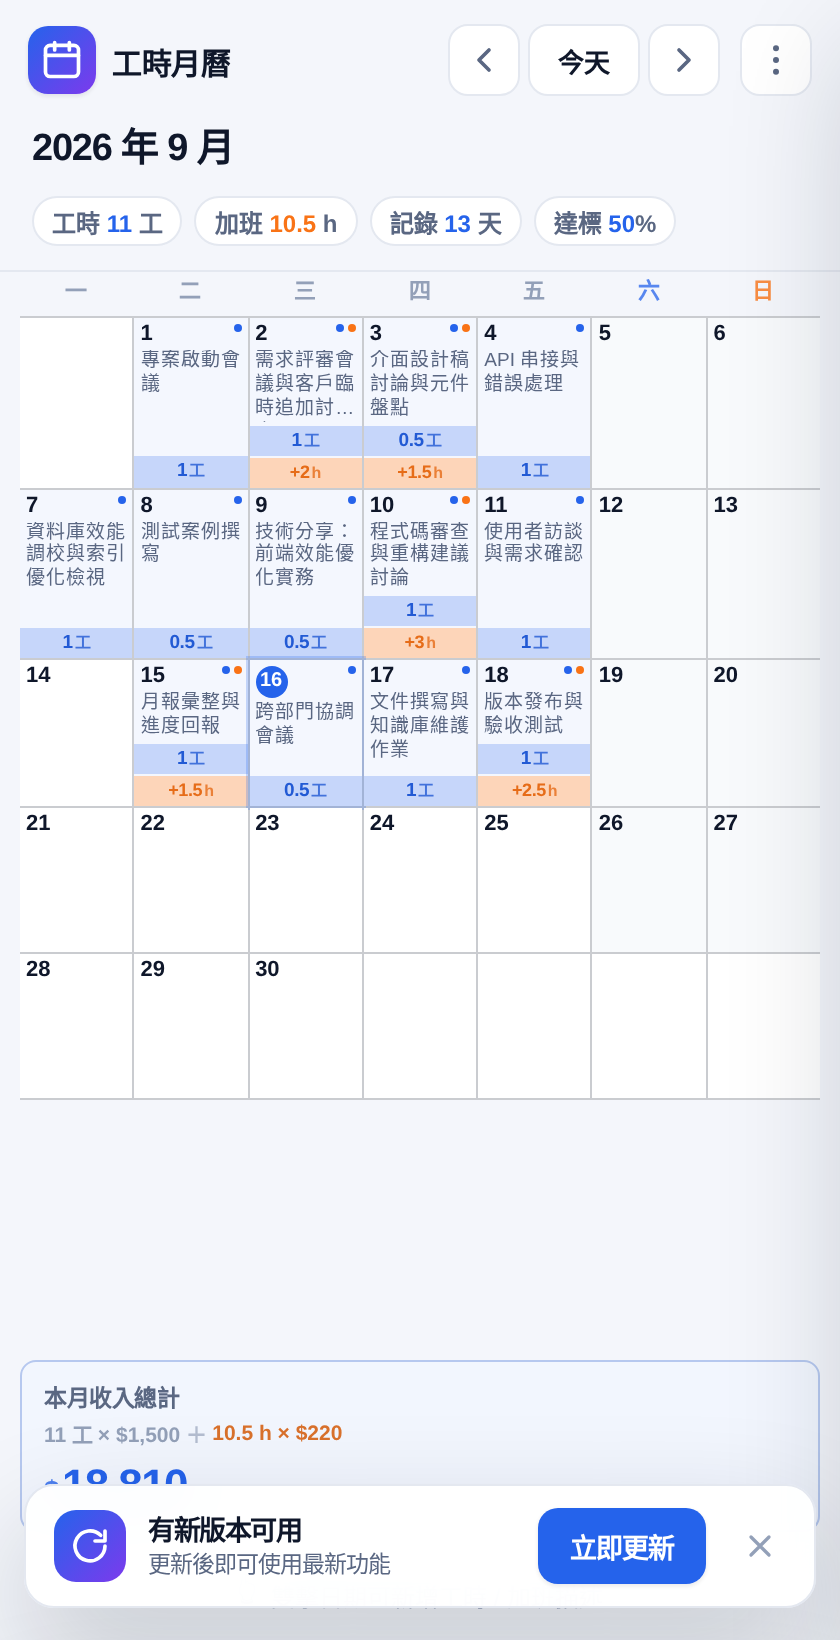
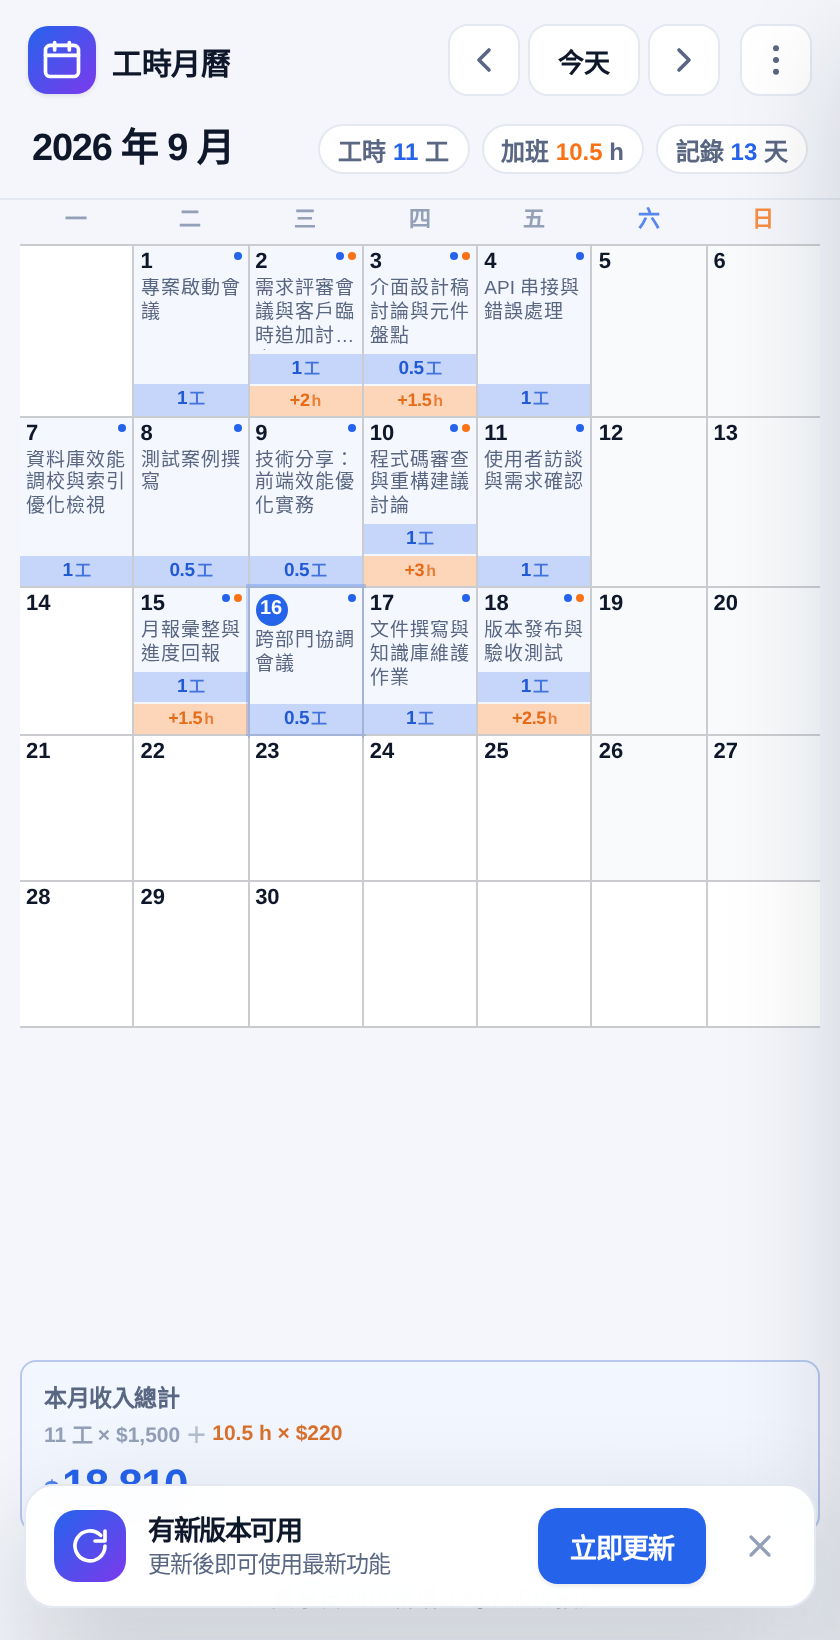
v1.8.1：移除「達標」統計參數
- 月度統計不再顯示達標率，只保留工時、加班、記錄天數
- 連帶移除頁首統計列的達標膠囊與相關的應出勤工數計算
- 更新「1 工 = 幾小時」的說明文字（不再提及達標率）
- 更新截圖與 README

diff --git a/worktime-calendar.standalone.html b/worktime-calendar.standalone.html
@@ -1357,7 +1357,7 @@ textarea::placeholder, input::placeholder { color: var(--text-3); }
       <input id="stdHours" type="number" inputmode="decimal" step="0.5" min="0.5" max="24" value="8">
       <button type="button" class="step-btn" data-target="stdHours" data-delta="0.5">+</button>
     </div>
-    <p class="drawer-help">用來換算「1 工」對應的實際小時數，也是達標率的計算基準</p>
+    <p class="drawer-help">用來換算「1 工」對應的實際小時數</p>
   </div>
 
   <div class="drawer-section">
@@ -1456,8 +1456,8 @@ textarea::placeholder, input::placeholder { color: var(--text-3); }
   'use strict';
 
   // 由 bump-version.sh 自動維護
-  const APP_VERSION = '1.8.0';
-  const APP_BUILD = '20260916-0043';
+  const APP_VERSION = '1.8.1';
+  const APP_BUILD = '20260916-0808';
 
   const STORE_KEY = 'worktime-calendar:v1';
   const SETTINGS_KEY = 'worktime-calendar:settings:v1';
@@ -1721,21 +1721,10 @@ textarea::placeholder, input::placeholder { color: var(--text-3); }
     const totalOt = list.reduce((s, e) => s + num(e.otHours), 0);          // 小時
     const days = list.filter((e) => num(e.workUnits) > 0 || num(e.otHours) > 0 || e.workDesc || e.otDesc).length;
 
-    // 本月應出勤工數：週一至週五天數 × 1 工
-    const dim = new Date(y, m + 1, 0).getDate();
-    let workdays = 0;
-    for (let d = 1; d <= dim; d++) {
-      const dow = new Date(y, m, d).getDay();
-      if (dow !== 0 && dow !== 6) workdays++;
-    }
-    const expected = workdays;   // 每個工作日 = 1 工
-    const rate = expected > 0 ? Math.round((totalWork / expected) * 100) : 0;
-
     el.monthStats.innerHTML = `
       <span class="stat-pill">工時 <b>${fmtUnits(totalWork)}</b> 工</span>
       <span class="stat-pill ot">加班 <b>${fmtH(totalOt)}</b> h</span>
       <span class="stat-pill">記錄 <b>${days}</b> 天</span>
-      <span class="stat-pill">達標 <b>${rate}</b>%</span>
     `;
   }
 

diff --git a/app.js b/app.js
@@ -7,8 +7,8 @@
   'use strict';
 
   // 由 bump-version.sh 自動維護
-  const APP_VERSION = '1.8.0';
-  const APP_BUILD = '20260916-0043';
+  const APP_VERSION = '1.8.1';
+  const APP_BUILD = '20260916-0808';
 
   const STORE_KEY = 'worktime-calendar:v1';
   const SETTINGS_KEY = 'worktime-calendar:settings:v1';
@@ -272,21 +272,10 @@
     const totalOt = list.reduce((s, e) => s + num(e.otHours), 0);          // 小時
     const days = list.filter((e) => num(e.workUnits) > 0 || num(e.otHours) > 0 || e.workDesc || e.otDesc).length;
 
-    // 本月應出勤工數：週一至週五天數 × 1 工
-    const dim = new Date(y, m + 1, 0).getDate();
-    let workdays = 0;
-    for (let d = 1; d <= dim; d++) {
-      const dow = new Date(y, m, d).getDay();
-      if (dow !== 0 && dow !== 6) workdays++;
-    }
-    const expected = workdays;   // 每個工作日 = 1 工
-    const rate = expected > 0 ? Math.round((totalWork / expected) * 100) : 0;
-
     el.monthStats.innerHTML = `
       <span class="stat-pill">工時 <b>${fmtUnits(totalWork)}</b> 工</span>
       <span class="stat-pill ot">加班 <b>${fmtH(totalOt)}</b> h</span>
       <span class="stat-pill">記錄 <b>${days}</b> 天</span>
-      <span class="stat-pill">達標 <b>${rate}</b>%</span>
     `;
   }
 

diff --git a/index.html b/index.html
@@ -156,7 +156,7 @@
       <input id="stdHours" type="number" inputmode="decimal" step="0.5" min="0.5" max="24" value="8">
       <button type="button" class="step-btn" data-target="stdHours" data-delta="0.5">+</button>
     </div>
-    <p class="drawer-help">用來換算「1 工」對應的實際小時數，也是達標率的計算基準</p>
+    <p class="drawer-help">用來換算「1 工」對應的實際小時數</p>
   </div>
 
   <div class="drawer-section">

diff --git a/sw.js b/sw.js
@@ -8,7 +8,7 @@
  *   4. controllerchange 觸發，頁面重新載入即為新版
  * ========================================================= */
 
-const CACHE = 'worktime-calendar-v1.8.0';
+const CACHE = 'worktime-calendar-v1.8.1';
 const PRECACHE = [
   './',
   './index.html',

diff --git a/README.md b/README.md
@@ -23,7 +23,7 @@
 | **工時與加班分行** | 月曆上工數與加班時數各佔一行，不並排 |
 | **描述優先** | 格子內先顯示描述，時數在下方 |
 | **滿版版面** | 版面用滿螢幕左右兩側（桌機僅留 20–28px 邊距），格子越寬工數／加班色塊越大 |
-| **月度統計** | 月工數、月加班時數、記錄天數、達標率 |
+| **月度統計** | 月工數、月加班時數、記錄天數 |
 | **收入總計** | 設定日薪與加班時薪後，月曆下方自動計算本月收入（工數 × 日薪 ＋ 加班時數 × 加班時薪） |
 | **快捷操作** | 觸控裝置單擊即開；`←/→` 切換月份、`T` 回到本月、`⌘/Ctrl+Enter` 儲存 |
 | **離線可用** | Service Worker 快取，無網路也能開；資料存在瀏覽器 |
